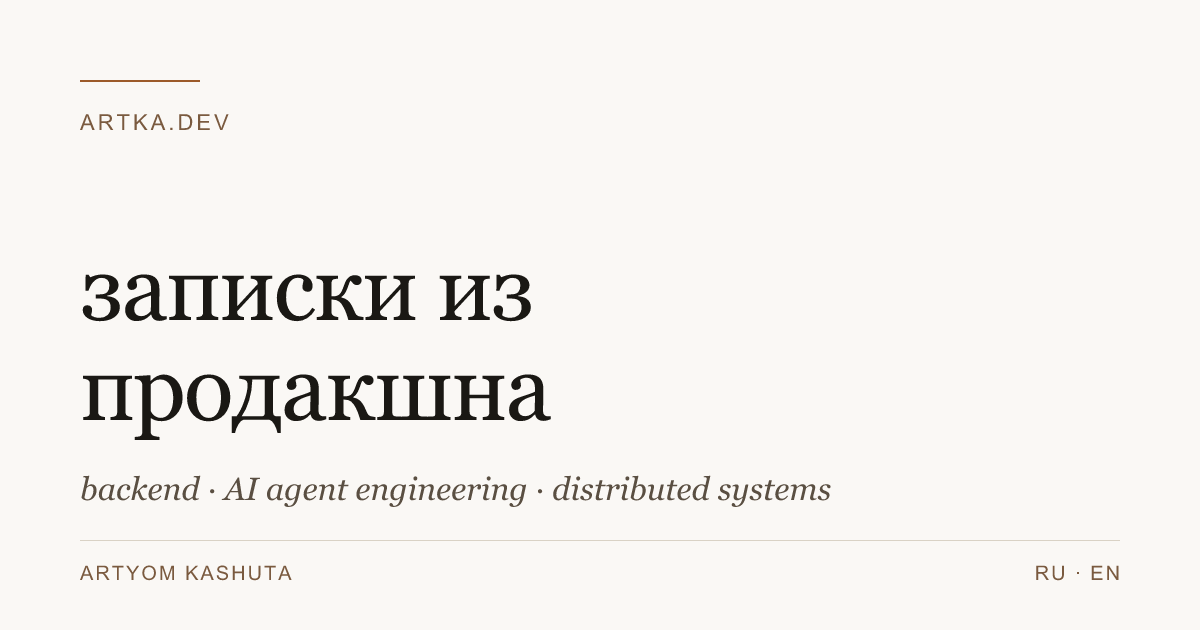
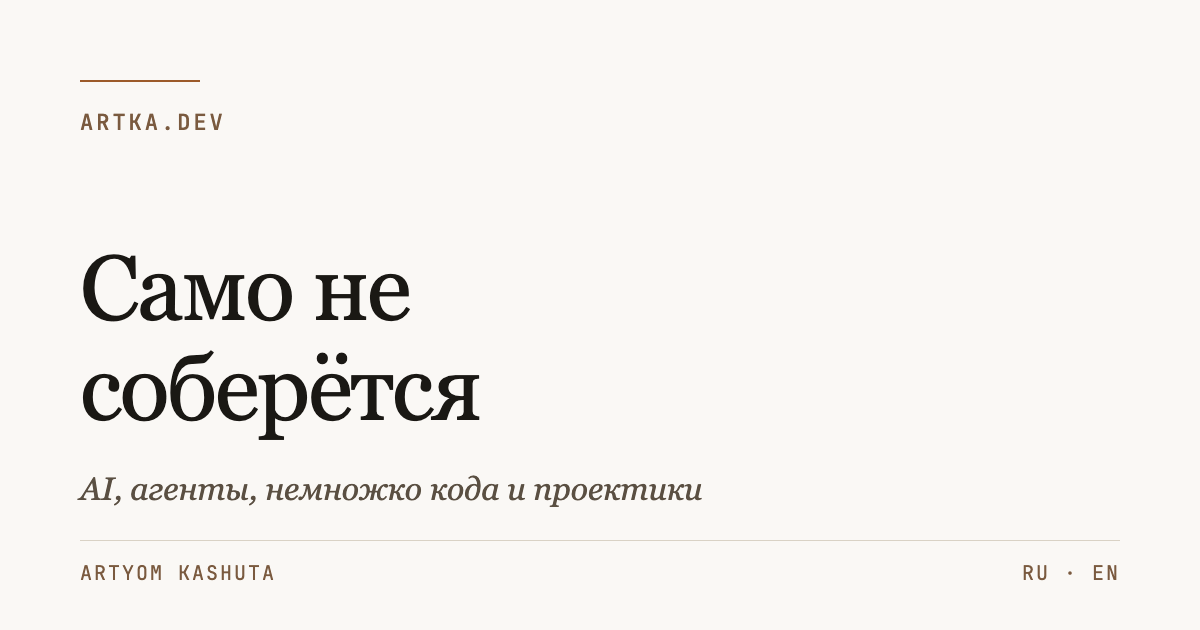
feat: rename the site tagline to «Само не соберётся» / «Won’t Build Itself»
Header, home seal, RSS title, newsletter headline, default meta description,
web manifest and the default OG card. The default description now follows
the page locale. Ankara is dropped from the seal.

diff --git a/src/content/site/en/home.md b/src/content/site/en/home.md
@@ -6,7 +6,7 @@ heroHighlight: AI agents
 heroLede: >-
   Breakdowns of how Claude Code and AI agents work under the hood, and what of it holds up in production.
 heroCta: All articles →
-sealPhrase: Notes from production · since 2018 · Ankara
+sealPhrase: Won’t Build Itself · since 2018
 tickerItems: |-
   New · 8 pages out of 185
   Video with Claude Code: from brief to render
@@ -23,6 +23,6 @@ metaTitle: artka.dev — Artyom Kashuta | AI agents and backend
 metaDescription: >-
   artka.dev — the personal technical blog of Artyom Kashuta. Notes on Claude Code, LLM agents, RAG pipelines, and production backend.
 lang: en
-sourceHash: e5bdaea184663ef2eb41a02385d7d17606a49c99263a317bf1052b82b8343e83
+sourceHash: 28e8e116943bab13358052fe5aa687e0f41f8f4b1e77859c34f336b3677ee920
 manuallyEdited: true
 ---

diff --git a/src/content/site/home.md b/src/content/site/home.md
@@ -6,7 +6,7 @@ heroHighlight: AI-агентов
 heroLede: >-
   Разборы того, как Claude Code и AI-агенты работают изнутри, и что из этого выдерживает production.
 heroCta: Все статьи →
-sealPhrase: Записки из продакшна · с 2018 · Анкара
+sealPhrase: Само не соберётся · с 2018
 tickerItems: |-
   Новое · 8 страниц из 185
   Видео с Claude Code: от брифа до рендера
